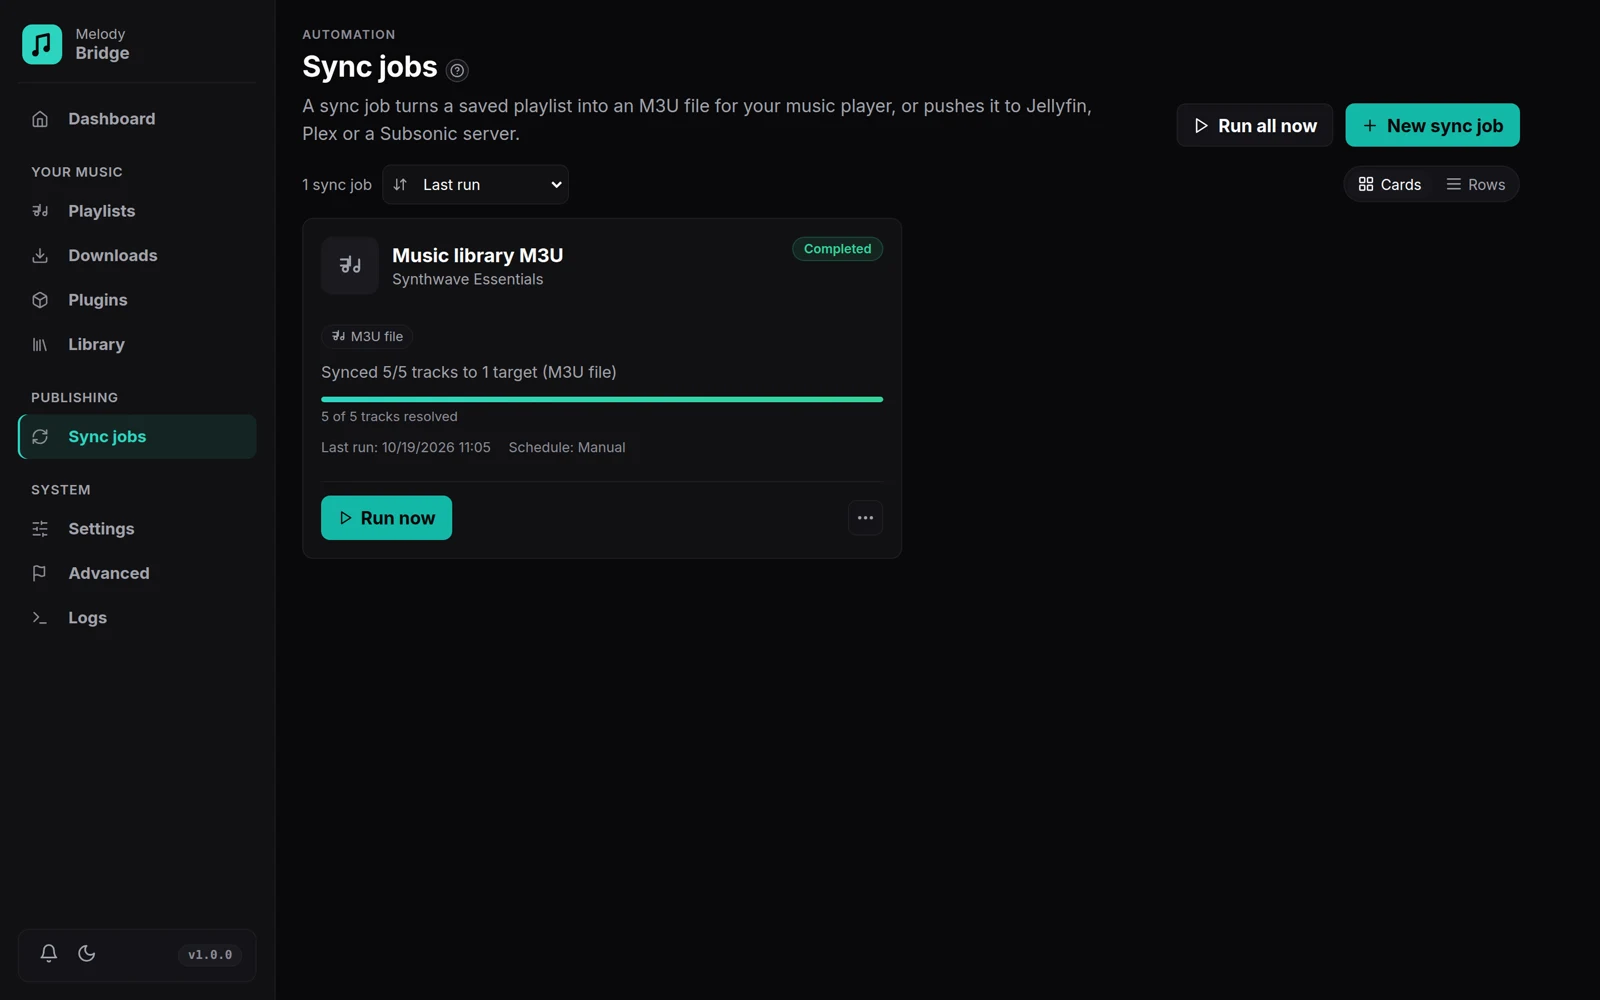
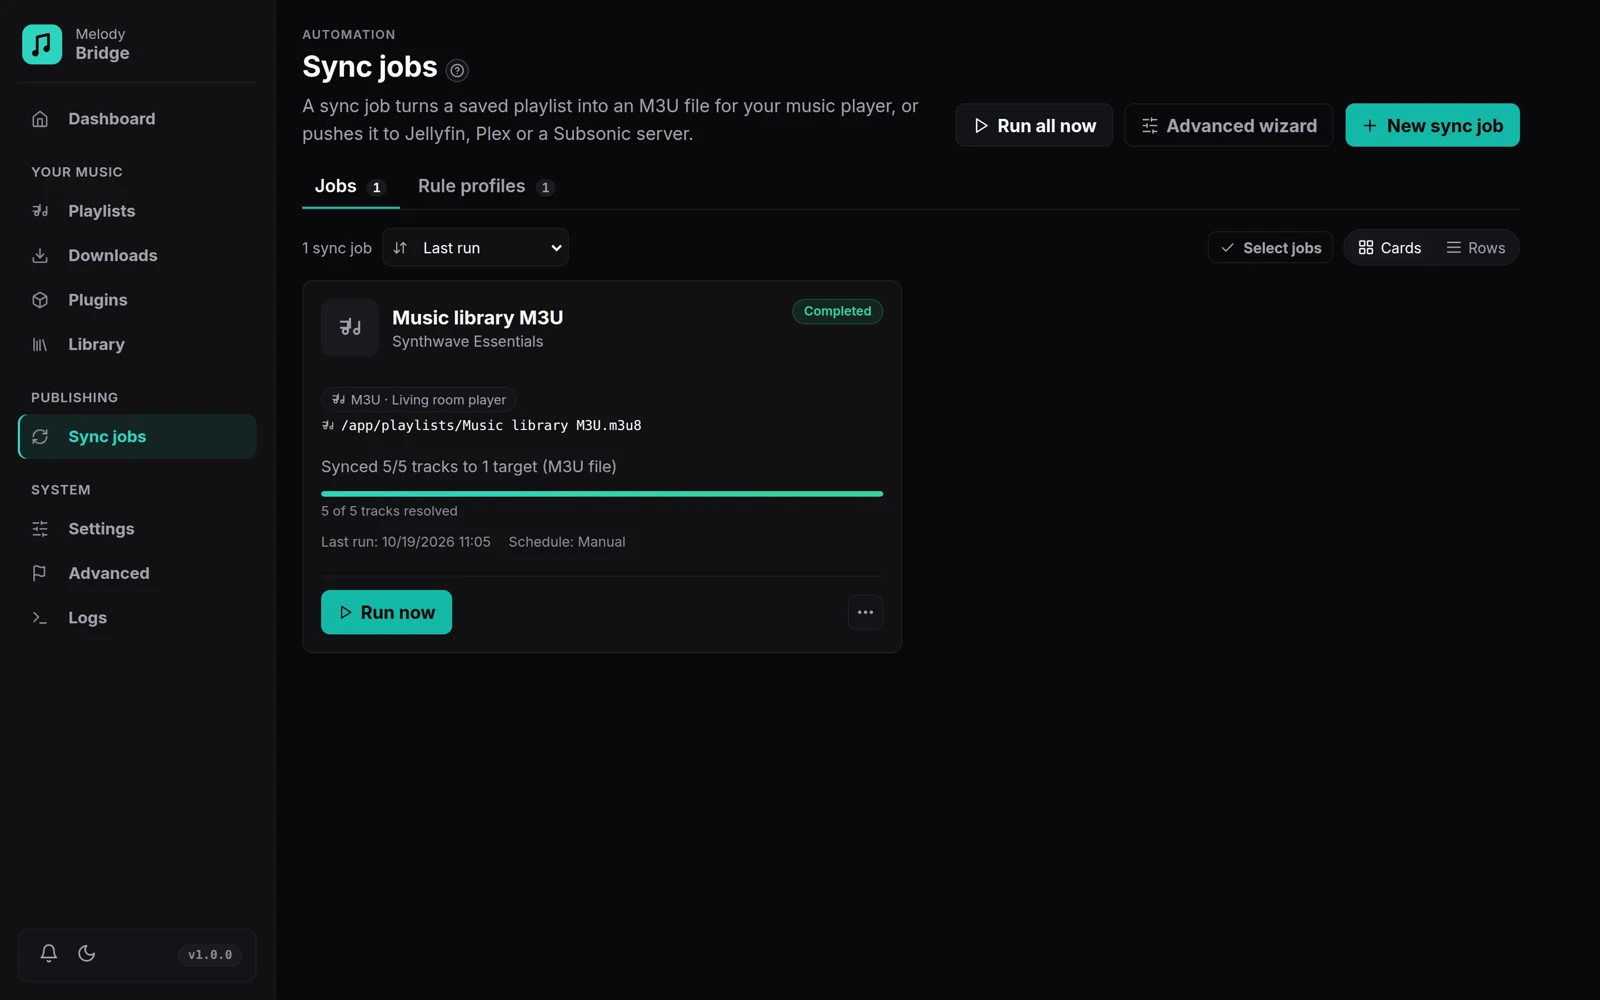
docs: explain sync rule profiles and bulk editing
The publishing guide now describes the quick editor, shared rule profiles, bulk actions and the advanced editor. The reference lists the profile fields and live path resolution. Screenshots cover the new sync jobs header, rule profiles tab and quick editor.

diff --git a/docs/publishing.md b/docs/publishing.md
@@ -7,7 +7,7 @@ and Plex in a single run. Jobs run by hand or on a schedule, so your "New
 releases" playlist can show up on the media server without you touching
 anything.
 
-<img src="/screens/sync.webp" alt="Sync jobs page with job cards and the five step wizard" width="800">
+<img src="/screens/sync.webp" alt="Sync jobs page with jobs, rule profiles and bulk selection" width="800">
 
 ## Publish playlists in a few clicks
 
@@ -26,37 +26,75 @@ Playlists that already have a job are left out of the list, so the same playlist
 is not offered twice; creating the jobs re-reads the list, and anything deleted
 in the meantime is named in the result instead of becoming a dangling target.
 
-The quick path still skips path remaps and the per-job Jellyfin user. Open a
-created job with **Edit** on the Sync jobs page for those.
+The quick path still skips custom remaps and the per-job Jellyfin user. Open a
+created job with **Quick edit** on the Sync jobs page, or use a rule profile.
 
 <img src="/screens/publish.webp" alt="Quick publish dialog on the Playlists page" width="800">
 
-## Create a sync job
+## Create and edit a sync job
 
-**New sync job** opens a five-step wizard.
+**New sync job** opens the quick editor, not a five-step wizard. The form is one
+screen:
 
-### Step 1: Pick your playlist
+- **Basics**: name, source playlist or folder, and the search folders.
+- **Publish to**: the M3U file, a rule profile, the compatibility format, and
+  any media server profiles. One job can publish to several targets at once.
+- **Schedule**: manual, hourly, daily, weekly, monthly or cron.
+- **Rules and preview**: the shared rules in use, a sample source path, the
+  player path and the exact M3U entry.
 
-Give the job a name and choose the source:
+**Create sync job** saves it. Later, **Quick edit** in a job's menu opens the
+same screen with the current values. **Advanced edit** opens the full editor for
+custom per-job remaps, legacy connections and every low-level option.
 
-- **Saved playlist** publishes a playlist from the Playlists page.
-- **Local folder** publishes one scan folder from the Library page, for music
-  that did not come from a playlist at all.
+<img src="/screens/sync-quick.webp" alt="Quick sync job editor with basics, targets, rules and a live rule preview" width="800">
 
-### Step 2: Where your music lives
+### Rule profiles
 
-A checkbox list of your scan folders, all checked by default. Leave them all
-checked to search every folder for matching files. Only tracks whose file lives
-in a ticked folder are published; folders that merely share a prefix (`List A`
-and `List AB`) stay apart.
+A rule profile is a reusable bundle of output rules. It sets:
 
-### Step 3: Choose the targets
+- the M3U output folder;
+- the file name pattern, with `{job}` or `{playlist}` for the job name;
+- the text format, relative paths and UTF-8 BOM/CRLF/backslash choices;
+- the path remap rules, for example `/music` to `/media/music`;
+- the extension remap rules, for example `.flac` to `.mp3`.
 
-Tick everything the job should publish to; at least one target is required.
+Open the **Rule profiles** tab to create one. Every job linked to that profile
+follows it on the next run, so changing the library mount or the playlist folder
+is one edit, not twenty. The editor shows a live preview: the M3U file, the path
+the player sees, and the M3U entry that will be written.
+
+The profile is also used by the Jellyfin, Plex and Subsonic path lookup. One set
+of rules therefore keeps the M3U and every media server target in step.
+
+<img src="/screens/sync-profiles.webp" alt="Rule profiles tab with a shared output profile" width="800">
+
+### Edit many jobs
+
+Choose **Select jobs** to switch the list to rows with checkboxes. Select any
+number of jobs, then:
+
+- **Apply profile** links them all to one rule profile;
+- **Set schedule** sets their schedule together;
+- **Set M3U folder** gives each selected job its own `{job}.m3u8` in that folder
+  and switches them to custom paths;
+- **Add server** adds one media server profile to every selected job.
+
+The selection bar works on the selected rows only. Nothing is deleted, and a
+job that already has a target keeps its other targets.
+
+### The advanced editor
+
+The old wizard is still available from **Advanced wizard** and **Advanced edit**.
+Use it when a job needs its own remap rules instead of a shared profile, or when
+you need to keep a legacy inline connection. It walks through source, search
+folders, targets, remaps and review.
+
+For a step-by-step description of the targets:
 
 | Target | What it needs |
 |---|---|
-| M3U file | An output path inside the container. It starts from the **Playlist output folder** setting plus the job name; type a different path when this job should land elsewhere. **Playlist compatibility** picks the text format: **Widest compatibility** writes UTF-8 with BOM, Windows line endings and forward slashes for a `.m3u8` file; **Windows car and MP4 players** uses backslashes instead; **Plain** keeps the old host line endings and no BOM for a `.m3u` file; **Custom** exposes the three switches. Tick **Relative paths in the M3U** to write entries relative to the M3U file (`../music/song.flac`) instead of absolute paths, so the playlist keeps working when the folder moves. Leave it off when the player or media server sees the two folders at unrelated paths, as the default Docker layout does. Putting the playlist in the same folder as the music gives bare file names and works on the most devices |
+| M3U file | An output path inside the container. With a rule profile the folder and file name come from the profile; without one, type the path. **Playlist compatibility** writes UTF-8 with BOM, Windows line endings and forward slashes for `.m3u8`, uses backslashes for a Windows car or MP4 player, or keeps the plain/old format. **Relative paths** makes entries like `../music/song.flac`; putting the playlist in the same folder as the music gives bare file names and works on the most devices |
 | Jellyfin | A Jellyfin profile from **Settings, Media servers**. **Test connection** checks it and lets you pick the user; that user applies to every Jellyfin target of the job |
 | Plex | A Plex profile. The token holder is the only account there is, so there is no user picker |
 | Subsonic | A Subsonic or Navidrome profile. Navidrome, gonic, Airsonic, Ampache, Funkwhale and Nextcloud Music all speak this API; there are no API keys |
@@ -64,28 +102,12 @@ Tick everything the job should publish to; at least one target is required.
 The job stores the profiles you tick, not a copy of their credentials: edit a
 profile once and every job that uses it follows. If a profile is deleted, the
 next edit drops that target and asks for a replacement while the job's other
-targets stay. No profile yet? The wizard links straight to the media servers tab,
-where you create one (Jellyfin sign-in and Quick Connect included), then reload
-the list here. A job created before profiles existed keeps the connection it
+targets stay. A job created before profiles existed keeps the connection it
 carries as a target you can keep or replace.
 
-The job card names every target, and the run summary counts them: a run that
-reaches three targets says so, and one refused target fails the run with its own
-message while the others still publish.
-
-### Step 4: Optional: fix file paths
-
-Add path or extension remap rules when the M3U consumer or a Jellyfin, Plex or
-Subsonic server sees files under a different path than MelodyBridge. This is
-common in Docker, where the same folder is mounted at different paths in
-different containers. A path rule maps a prefix (`/mnt/BackupHDD/Music` to
-`/media/music`), and an extension rule rewrites file extensions (`.flac` to
-`.opus`). Leave both empty when the paths already line up.
-
-### Step 5: Check and create
-
-Review the summary and press **Create sync job**. Later, **Edit** on the job
-card reopens the same wizard with the current values.
+Path and extension rules apply to the M3U entries and to the path lookup for
+Jellyfin, Plex and Subsonic. They are only needed when those consumers see files
+under a different path or extension, for example inside Docker.
 
 ## Schedules
 

diff --git a/docs/reference.md b/docs/reference.md
@@ -32,11 +32,21 @@ Connect**: the app shows a code, you approve it in Jellyfin, and the sign-in
 finishes by itself. Plex takes an X-Plex-Token. Every profile has a **Test**
 button, and one can be marked **Use as app default**.
 
-Profiles are what sync jobs pick: the wizard lists the profiles of the chosen
-kind, and a job stores the profile, not a copy of its credentials. Edit a
+Profiles are what sync jobs pick: the job editor lists the profiles of the
+chosen kind, and a job stores the profile, not a copy of its credentials. Edit a
 profile once and every job that uses it follows. The profile marked as app
 default feeds the app-wide fallback the sync clients use when no profile is
 picked.
+
+### Sync rule profiles
+
+Named output rules for sync jobs: M3U output folder, file name pattern, text
+format, relative paths, path remaps and extension remaps. Open the **Rule
+profiles** tab on the Sync jobs page to create one. A linked job follows the
+profile live, so changing the library mount or playlist folder updates every
+job that uses it. The quick editor shows the resolved M3U path and a preview of
+the player path and M3U entry. **Select jobs** applies a profile, a schedule, an
+M3U folder or a media server target to several jobs at once.
 
 ### Default paths
 
@@ -48,7 +58,8 @@ picked.
   along with it.
 - **Playlist output folder** (`/app/playlists`): where M3U files are written.
   A new sync job starts with `<folder>/<job name>.m3u8`; type a different path
-  in the wizard when a job should land elsewhere.
+  in the quick or advanced editor when a job should land elsewhere. A rule
+  profile can set the folder and file name for every linked job.
 - **Archive path** and **Archive format**: the defaults for archive copies.
   Leave the path empty for no archive. Per-playlist values override these, and
   the playlist page shows what the app default currently is. The format picker

diff --git a/docs/quickstart.md b/docs/quickstart.md
@@ -71,6 +71,6 @@ in the app is a container path: the music folder is `/music`, not `C:\Music` or
   build and what every volume and environment variable does.
 - [How it works](/concepts) for the download waterfall, the quality checks and
   how your library survives a database wipe.
-- [Publishing playlists](/publishing) for the full sync job wizard and schedules.
+- [Publishing playlists](/publishing) for the sync job editor, rule profiles and schedules.
 - [Accounts and imports](/accounts) when you want private playlists or liked
   songs, not just public links.
